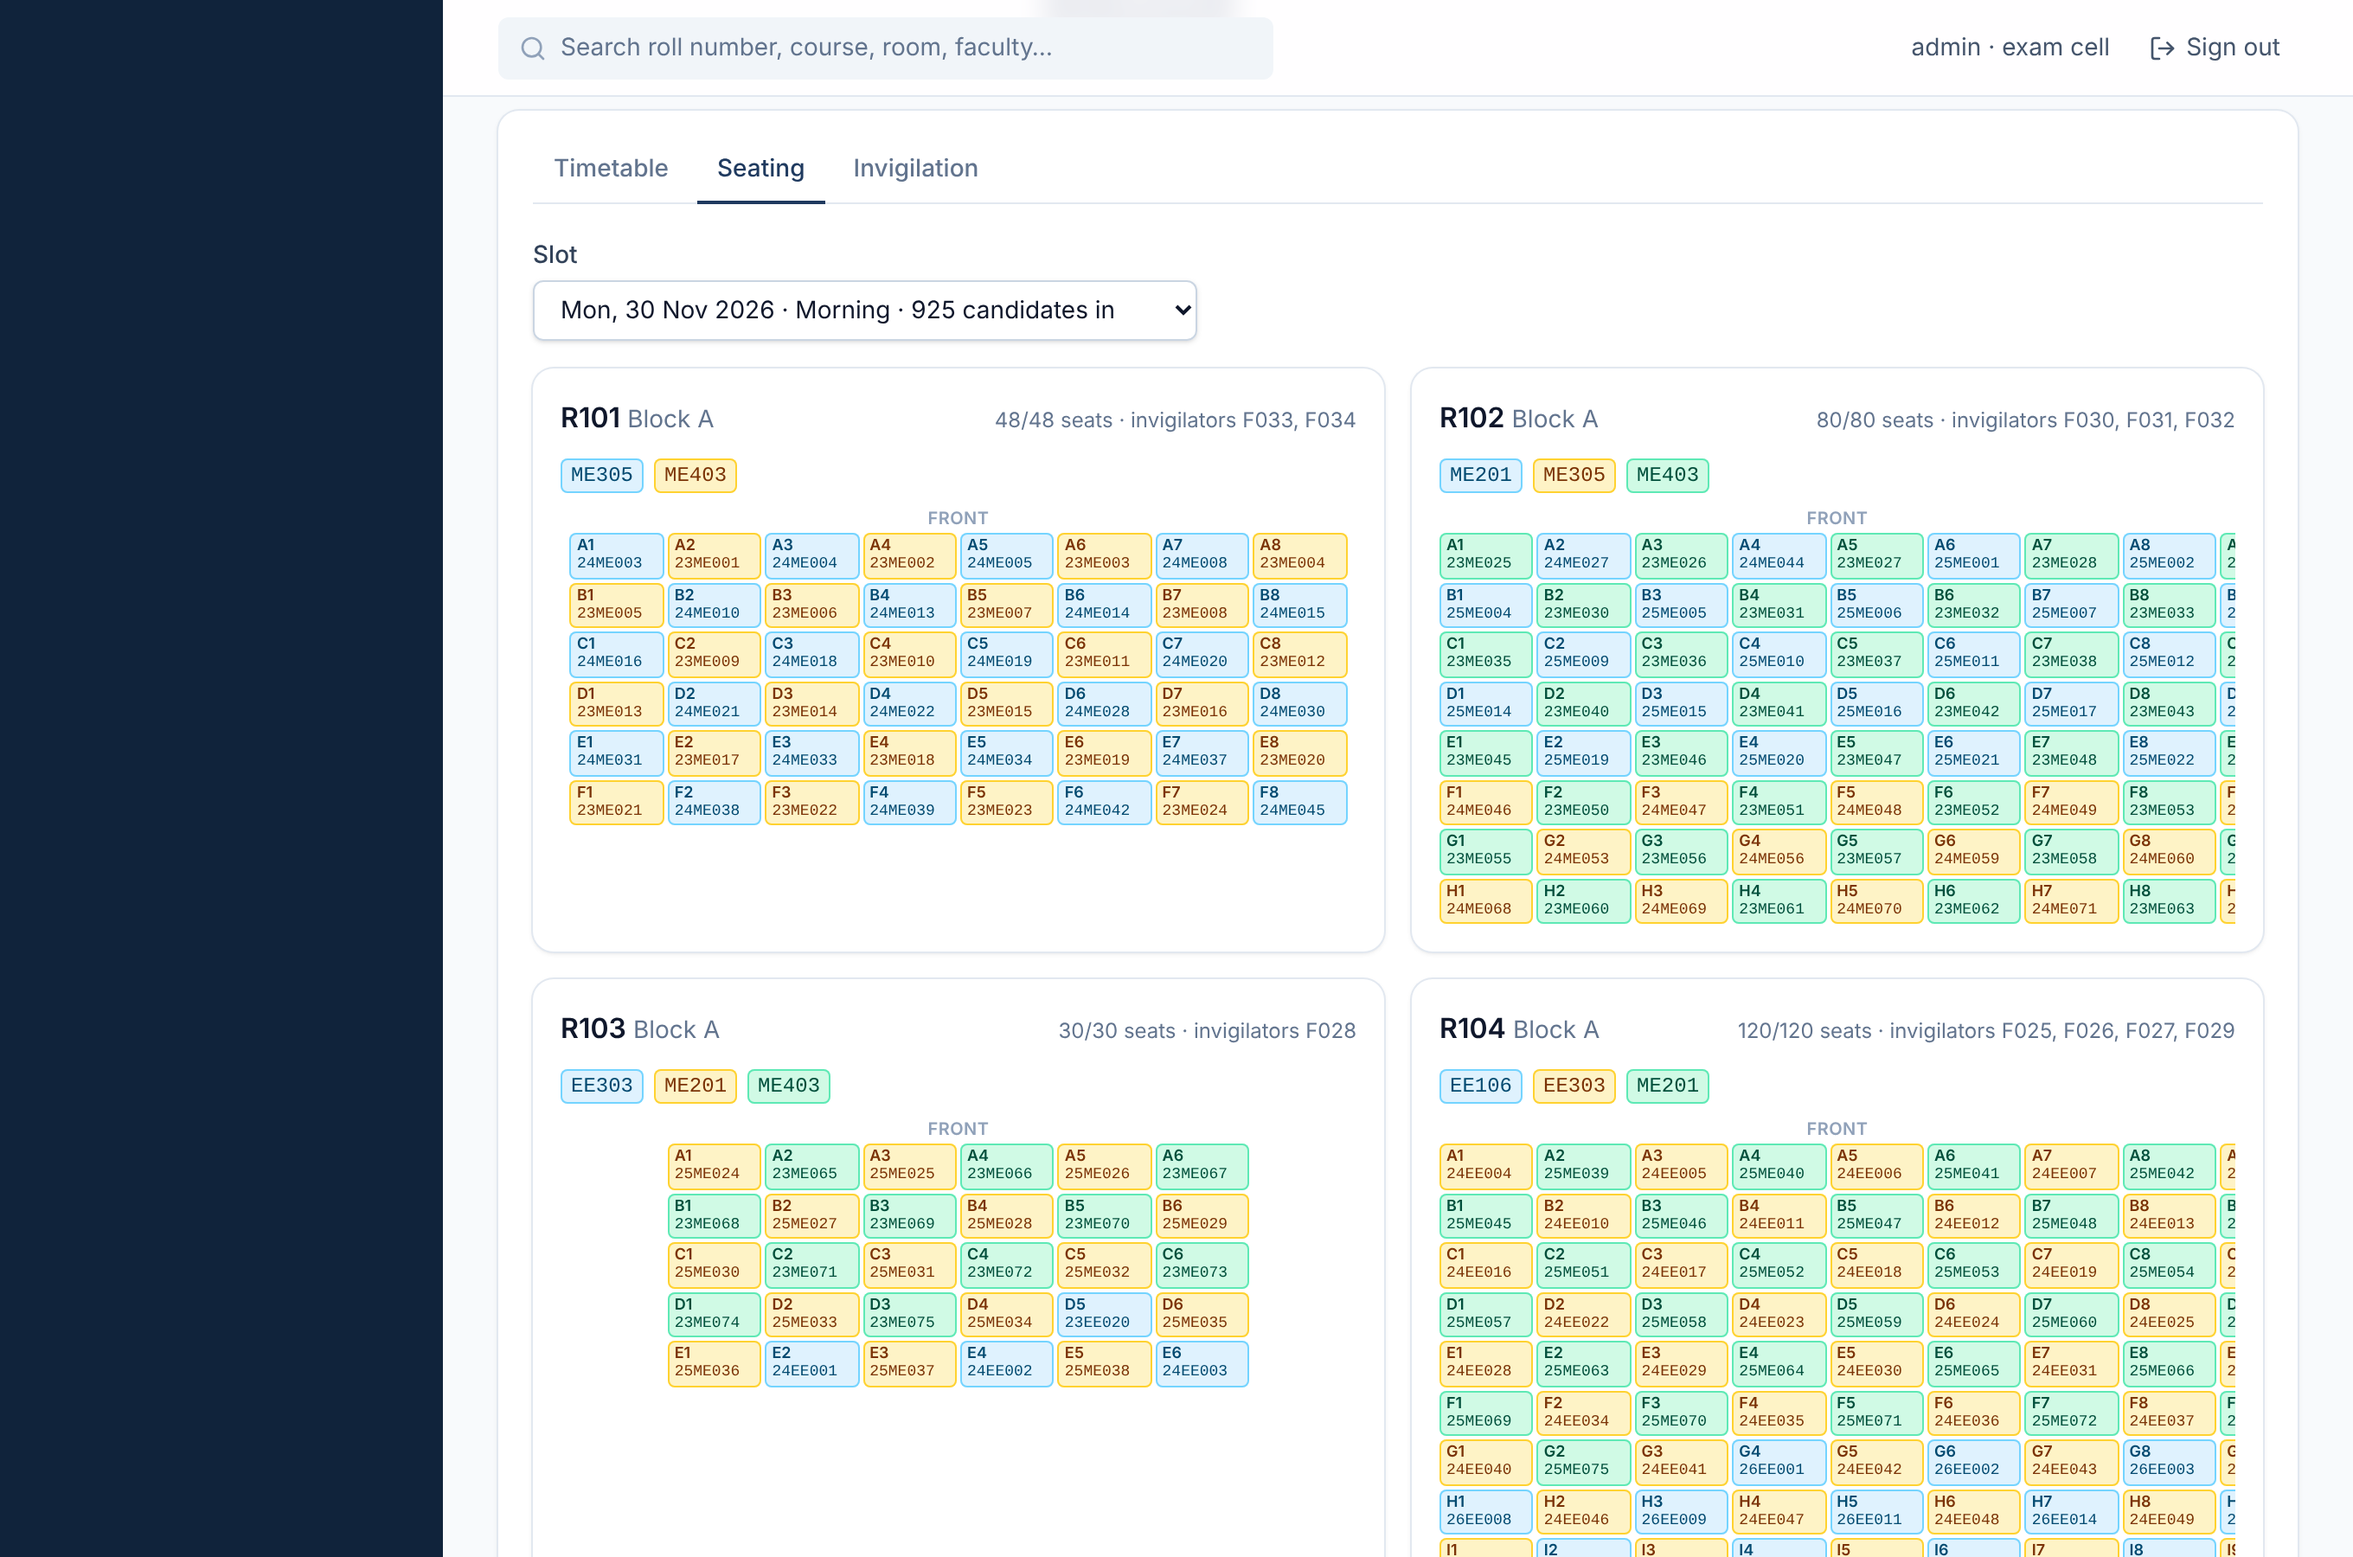
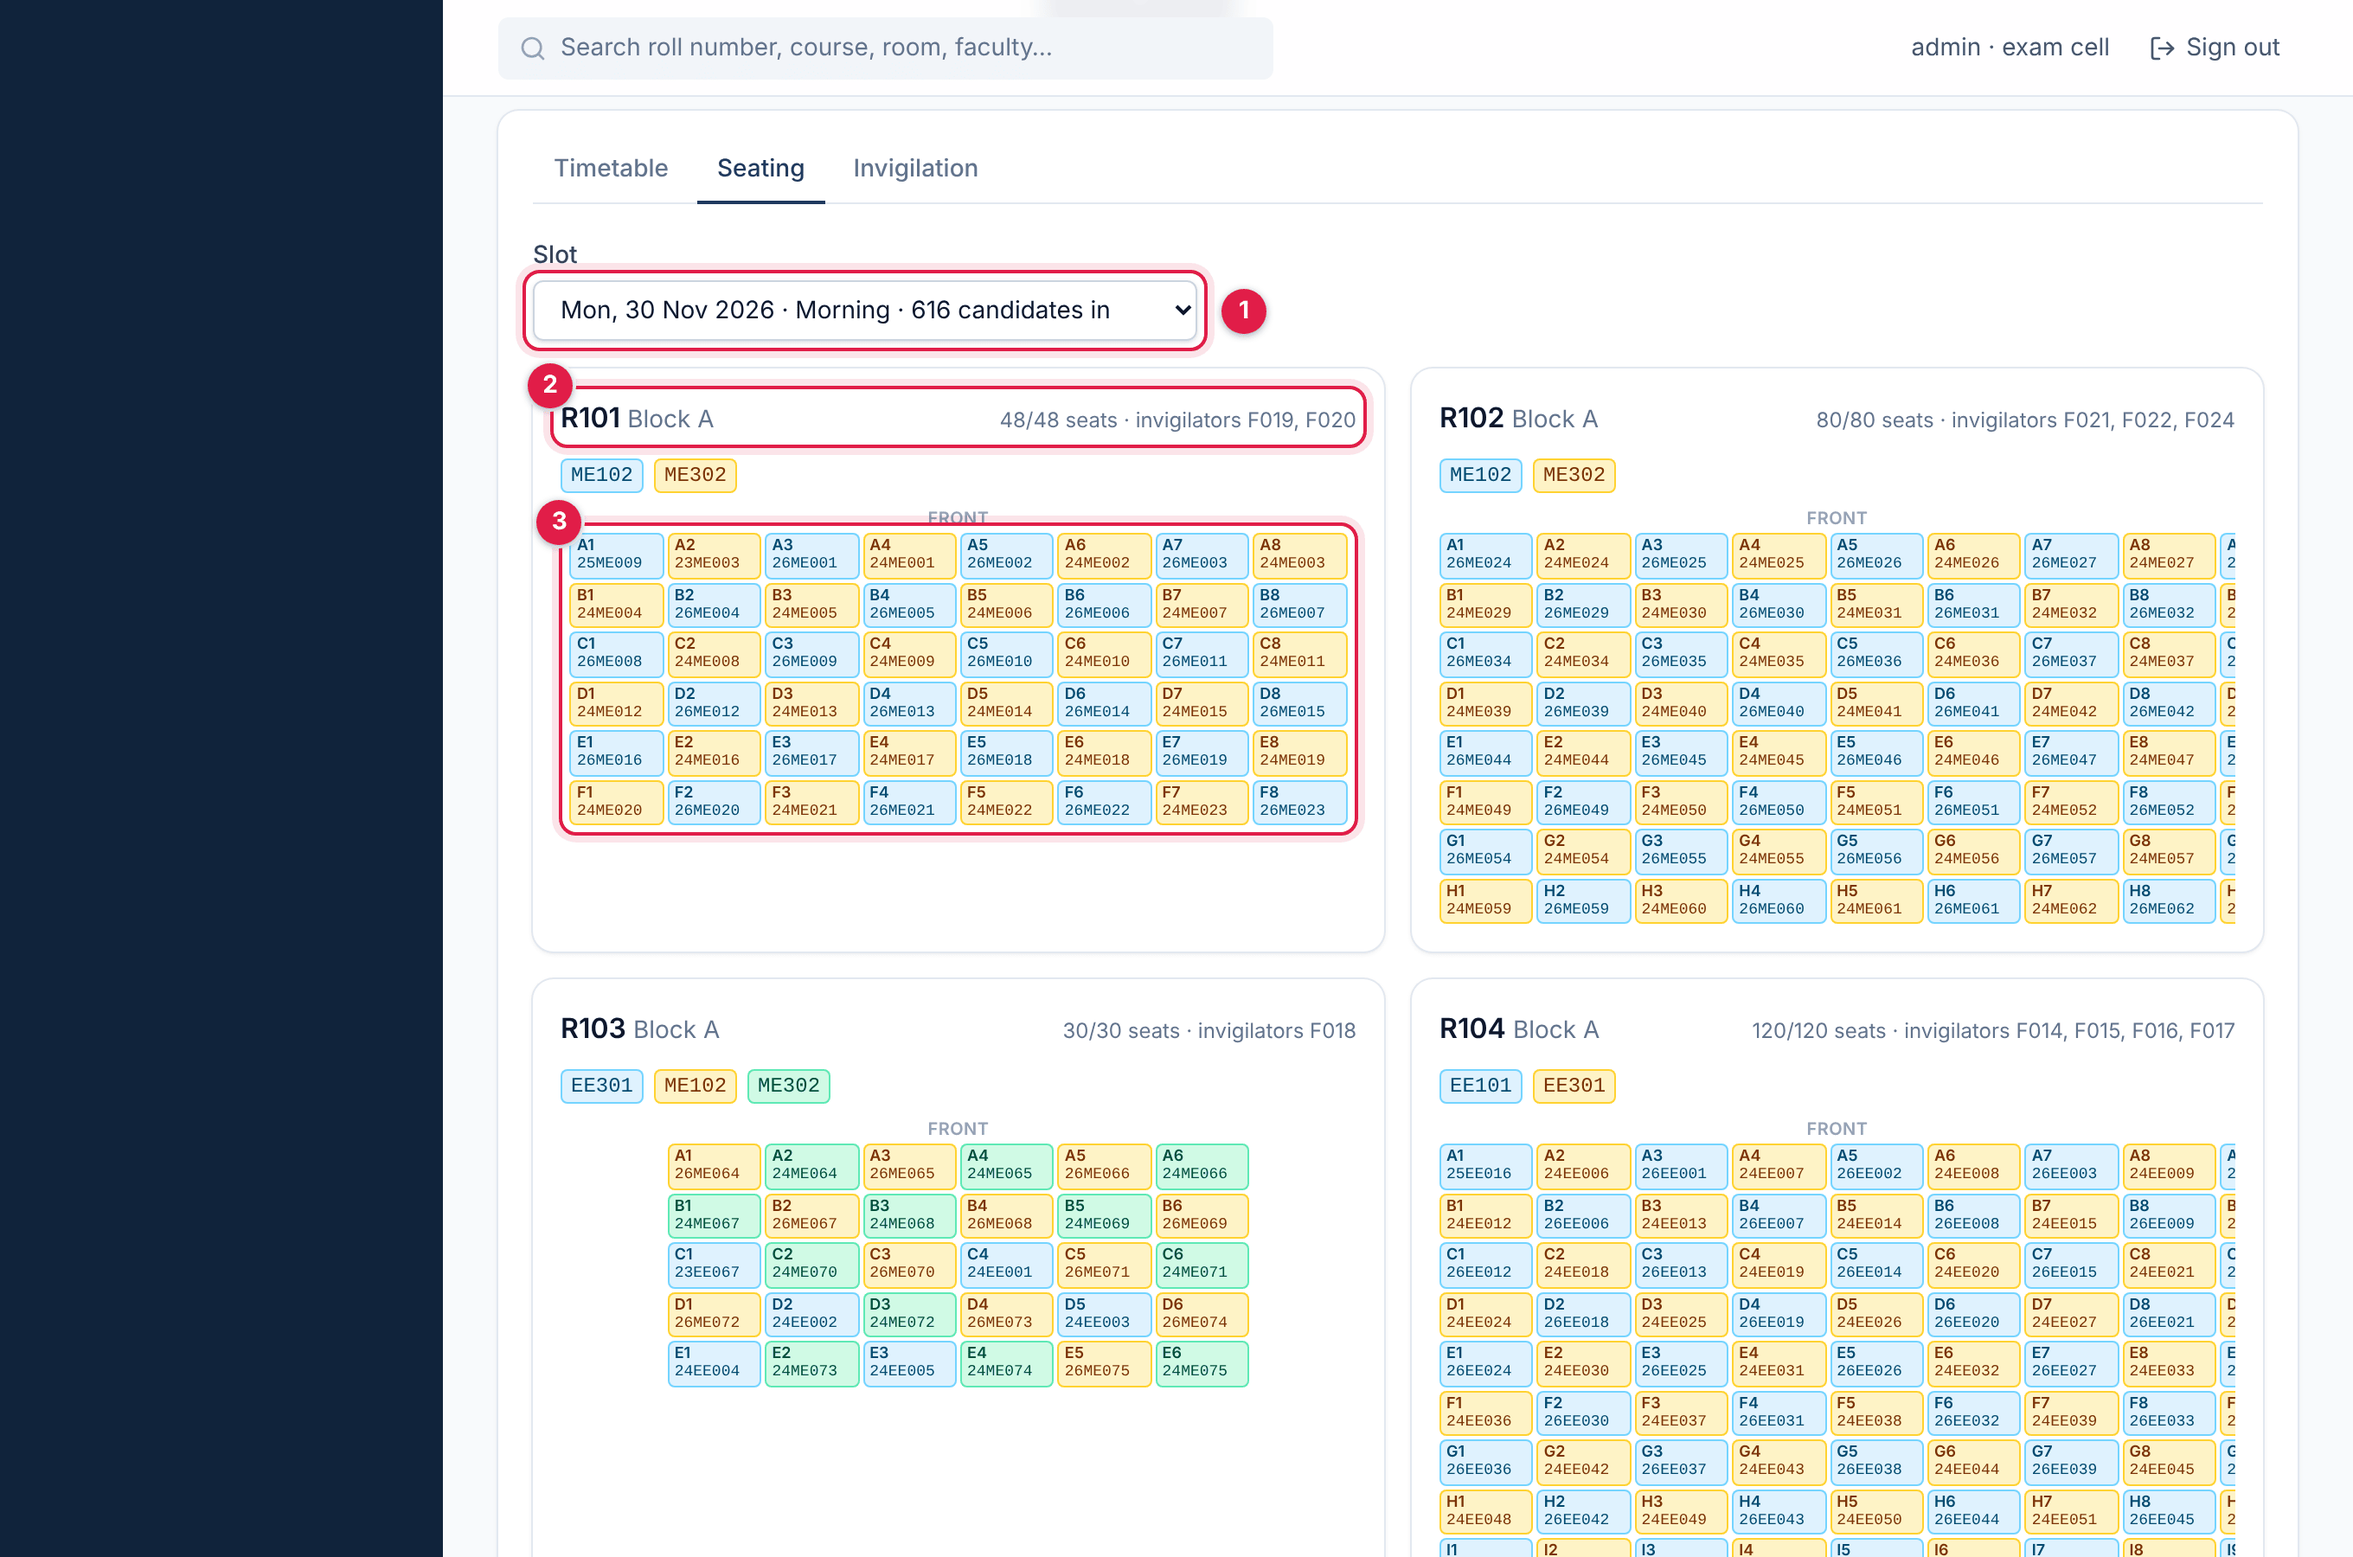
docs: regenerate annotated screenshots with a reproducible capture script

diff --git a/tools/README.md b/tools/README.md
@@ -1,0 +1,37 @@
+# Tools
+
+Scripts that regenerate the repository's visual assets, so images in the docs never drift
+from the product. Both need Node 18+ and Playwright. Run this once from the repository root
+(it only creates a git-ignored `node_modules/`):
+
+```bash
+npm install --no-save playwright@1.63.0 && npx playwright install chromium
+```
+
+If [`pngquant`](https://pngquant.org) is installed, the screenshot script also compresses its
+output.
+
+| Script | Produces | Needs |
+|---|---|---|
+| `brand/render.cjs` | `docs/assets/banner.png` (README header) and `docs/assets/social-preview.png` (1280×640, for *Settings → Social preview*) from `brand/brand.html` | the Inter font |
+| `screenshots/capture.cjs` | every image in `docs/screenshots/`, with numbered callouts on the key screens | a fresh demo stack |
+
+```bash
+node tools/brand/render.cjs
+
+docker compose -f docker-compose.full.yml down -v        # start from an empty database
+docker compose -f docker-compose.full.yml up -d --build
+node tools/screenshots/capture.cjs                       # BASE_URL=http://localhost:8088 by default
+```
+
+The capture script runs the real workflow end to end:
+
+1. reject a faulty import;
+2. solve a timetable and watch it live;
+3. review the plan;
+4. approve it as two people and wait for publication;
+5. re-seat a lost room;
+6. compare the runs;
+7. use the student portal and the public seat finder.
+
+It fails if any page throws an error, so it doubles as a smoke test of the whole stack.
